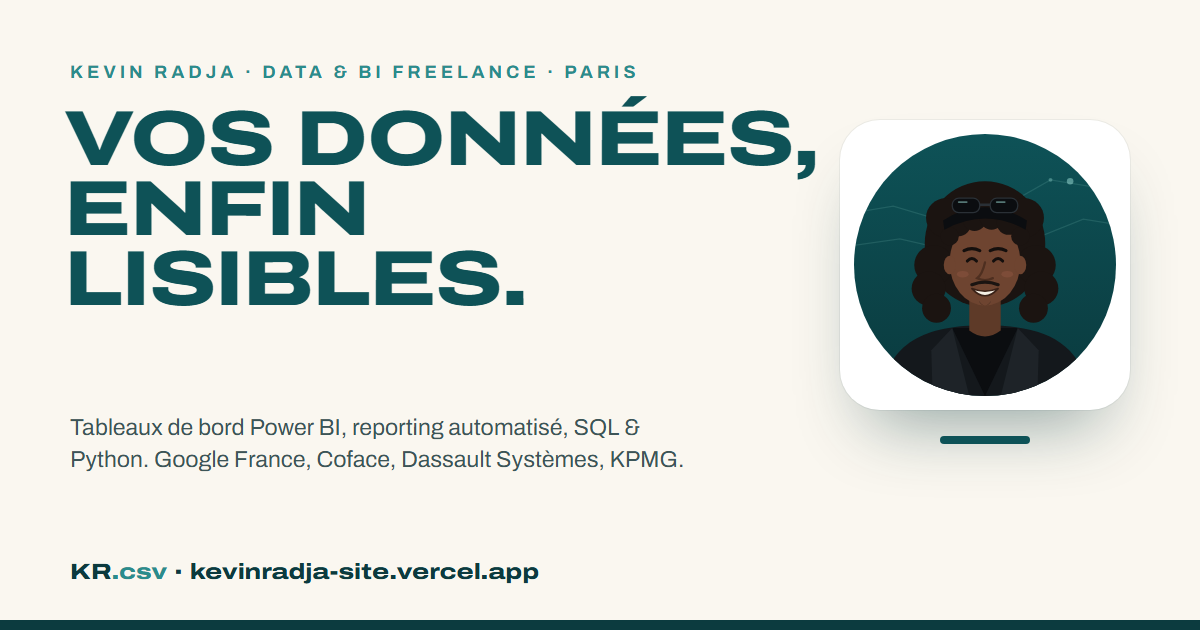
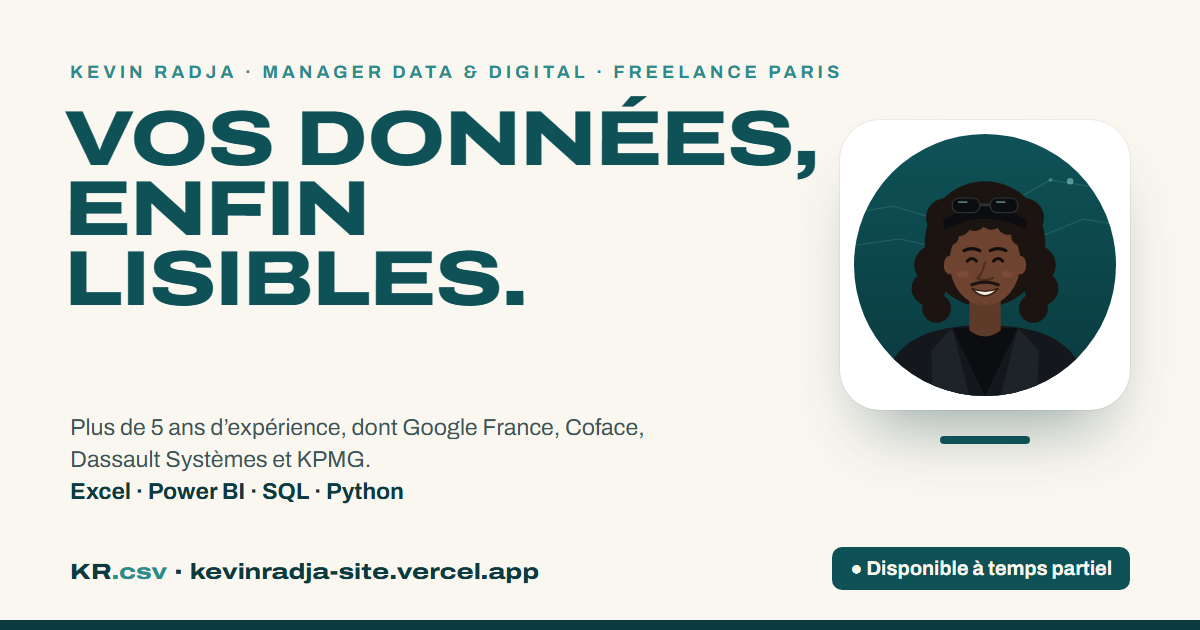
Aperçu de partage mis à jour (texte et image), soin 8-bit et cœurs +1 à chaque réparation

Changed region(s): [[0.0617, 0.6635, 0.5858, 0.8143], [0.6783, 0.8444, 0.9558, 0.9349], [0.2158, 0.0905, 0.7092, 0.1206]]

diff --git a/src/styles/global.css b/src/styles/global.css
@@ -886,3 +886,9 @@ body{line-height:1.65}
 .foot{padding-top:clamp(70px,8vw,110px)}
 .steps .step{padding:28px}
 .faq details{padding:22px 0}
+
+/* +1 heart when a step repairs the data */
+.heal{position:absolute;bottom:40%;z-index:5;font-family:ui-monospace,Menlo,Consolas,monospace;font-weight:800;font-size:clamp(18px,2vw,26px);color:#F4EFE4;background:#0E5257;border:3px solid #F4EFE4;border-radius:8px;padding:4px 10px;box-shadow:0 4px 0 rgba(0,0,0,.25);pointer-events:none;animation:heal 1.3s cubic-bezier(.2,.8,.2,1) both;image-rendering:pixelated}
+.heal i{font-style:normal;color:#FF5A6E}
+.heal:not(:first-of-type){background:transparent;border:0;box-shadow:none;padding:0;font-size:clamp(20px,2.4vw,30px)}
+@keyframes heal{0%{opacity:0;transform:translateY(20px) scale(.6)}20%{opacity:1;transform:translateY(0) scale(1.15)}35%{transform:scale(1)}100%{opacity:0;transform:translateY(-90px)}}

diff --git a/public/sfx.js b/public/sfx.js
@@ -14,6 +14,7 @@
     break:function(){noise(0,.14,.14);tone(180,0,.12,'sawtooth',.05,80)},
     over:function(){tone(440,0,.18,'triangle',.08,330);tone(330,.18,.2,'triangle',.08,220);tone(220,.38,.4,'triangle',.08,110)},
     record:function(){[523,659,784,1047].forEach(function(f,i){tone(f,i*.09,.16,'triangle',.08)})},
+    heal:function(){[659,784,988,1319,1568].forEach(function(f,i){tone(f,i*.045,.09,'square',.03)});tone(1976,.24,.22,'triangle',.05);tone(2637,.3,.18,'sine',.03)},
     stage0:function(){noise(0,.12,.08);tone(220,0,.09,'square',.04,140);tone(180,.08,.1,'square',.035,110)},
     stage1:function(){[523,659,784].forEach(function(f,i){tone(f,i*.06,.08,'square',.035)})},
     stage2:function(){[392,523,659,784,988].forEach(function(f,i){tone(f,i*.05,.07,'square',.03)})},
